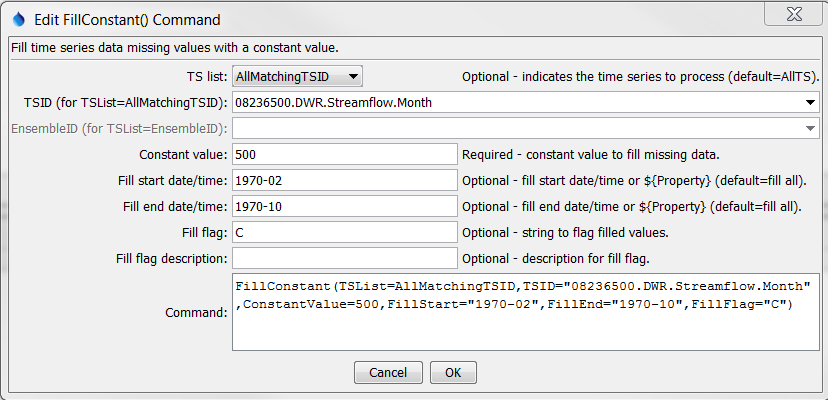
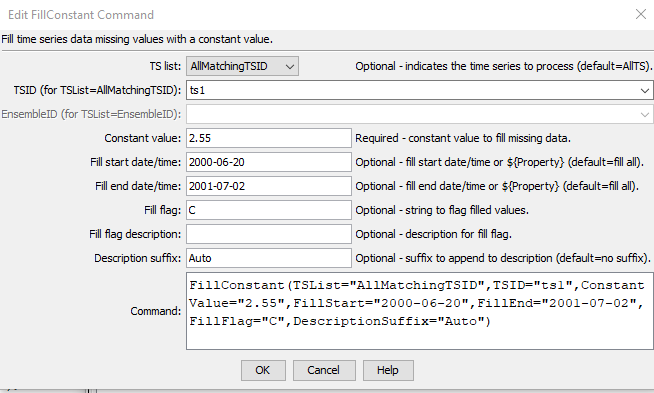
Update FillConstant for DescriptionSuffix, issue #175

diff --git a/mkdocs-project/docs/command-ref/FillConstant/FillConstant.md b/mkdocs-project/docs/command-ref/FillConstant/FillConstant.md
@@ -51,6 +51,7 @@ Command Parameters
 |`FillEnd`|Date/time indicating the end of filling, using a precision appropriate for the time series, or `OutputEnd`.  Can be specified with a processor `${Property}`.|Fill the entire time series.|
 |`FillFlag`|If specified, data flags will be enabled for the time series and each filled value will be tagged with the specified string.  The flag can then be used later to label graphs, etc.  The flag will be appended to existing flags if necessary.  Can be specified with a processor `${Property}`.|No flag is assigned.|
 |`FillFlagDesc`|Description to use for the fill flag.  The description is used in visual products such as reports and graphs.  Can be specified with a processor `${Property}`.|No description is assigned to the fill flag.|
+|`DescriptionSuffix`| Suffix to append to the time series description if any values were filled.  Can be specified with a processor `${Property}`.  Specify as `Auto` to append the default suffix. | No suffix is appended to the description. |
 
 ## Examples ##
 
@@ -69,6 +70,18 @@ ConstantValue=500,FillStart="1970-02",FillEnd="1970-10",FillFlag="C")
 ## Troubleshooting ##
 
 See the main [TSTool Troubleshooting](../../troubleshooting/troubleshooting.md) documentation.
+
+### Description Does Not Indicate Filling Information ###
+
+Prior to TSTool 15.2.0, the time series description was automatically updated to indicate that the time series was filled with a constant.
+Although this was useful information, it caused descriptions to contain extra information that did not look nice in visual products like graph legends.
+
+TSTool 15.2.0 changed the behavior of how the time series description is modified to use the `DescriptionSuffix` command parameter,
+with the default being no suffix.
+Specify the parameter as `Auto` to match the previous behavior.
+
+The time series history continues to contain information about how the time series was filled.
+Use the time series properties view in TSTool to review the history.
 
 ## See Also ##
 

diff --git a/mkdocs-project/docs/appendix-release-notes/release-notes-15.md b/mkdocs-project/docs/appendix-release-notes/release-notes-15.md
@@ -37,10 +37,20 @@ Issues may also be included in other repositories that are TSTool components.
 *   ![change](change.png) [15.2.0] Update the [`AppendFile`](../command-ref/AppendFile/AppendFile.md) command:
     +   Change to allow appending text to the output file when the input file does not exist,
         which is useful in looping.
+*   ![change](change.png) [15.2.0] Update the [`FillConstant`](../command-ref/FillConstant/FillConstant.md) command:
+    +   Add the `DescriptionSuffix` parameter to append to the time series description.
+    +   Change so that the default behavior is to not automatically append to the description.
+        Specify `DescriptionSuffix=Auto` to match the previous behavior.
 *   ![change](change.png) [15.2.0] Update the [`If`](../command-ref/If/If.md) command:
     +   Add `DataStoreIsOk` and `DataStoreIsNotOk` parameters to check whether a datastore is OK.
     +   Fix `TSHasNoData` to work.
     +   Improve logging messages to help with troubleshooting.
+*   ![change](change.png) [15.2.0] Update the [`ManipulateTableString`](../command-ref/ManipulateTableString/ManipulateTableString.md) command:
+    +   Add the `UseEmptyStringForNullInput` parameter.
+    +   Add the following operators:
+        -   `Copy` - to copy the value of the input to output
+        -   `ToBoolean` - to convert the input to a boolean value
+        -   `ToLong` - to convert the input to a long integer value
 *   ![change](change.png) [15.2.0] Update the [`NewObject`](../command-ref/NewObject/NewObject.md) command:
     +   Add initial support for reading a CSV, XML, and YAML files.
 *   ![change](change.png) [15.2.0] Update the [`PDF`](../command-ref/PDF/PDF.md) command:
